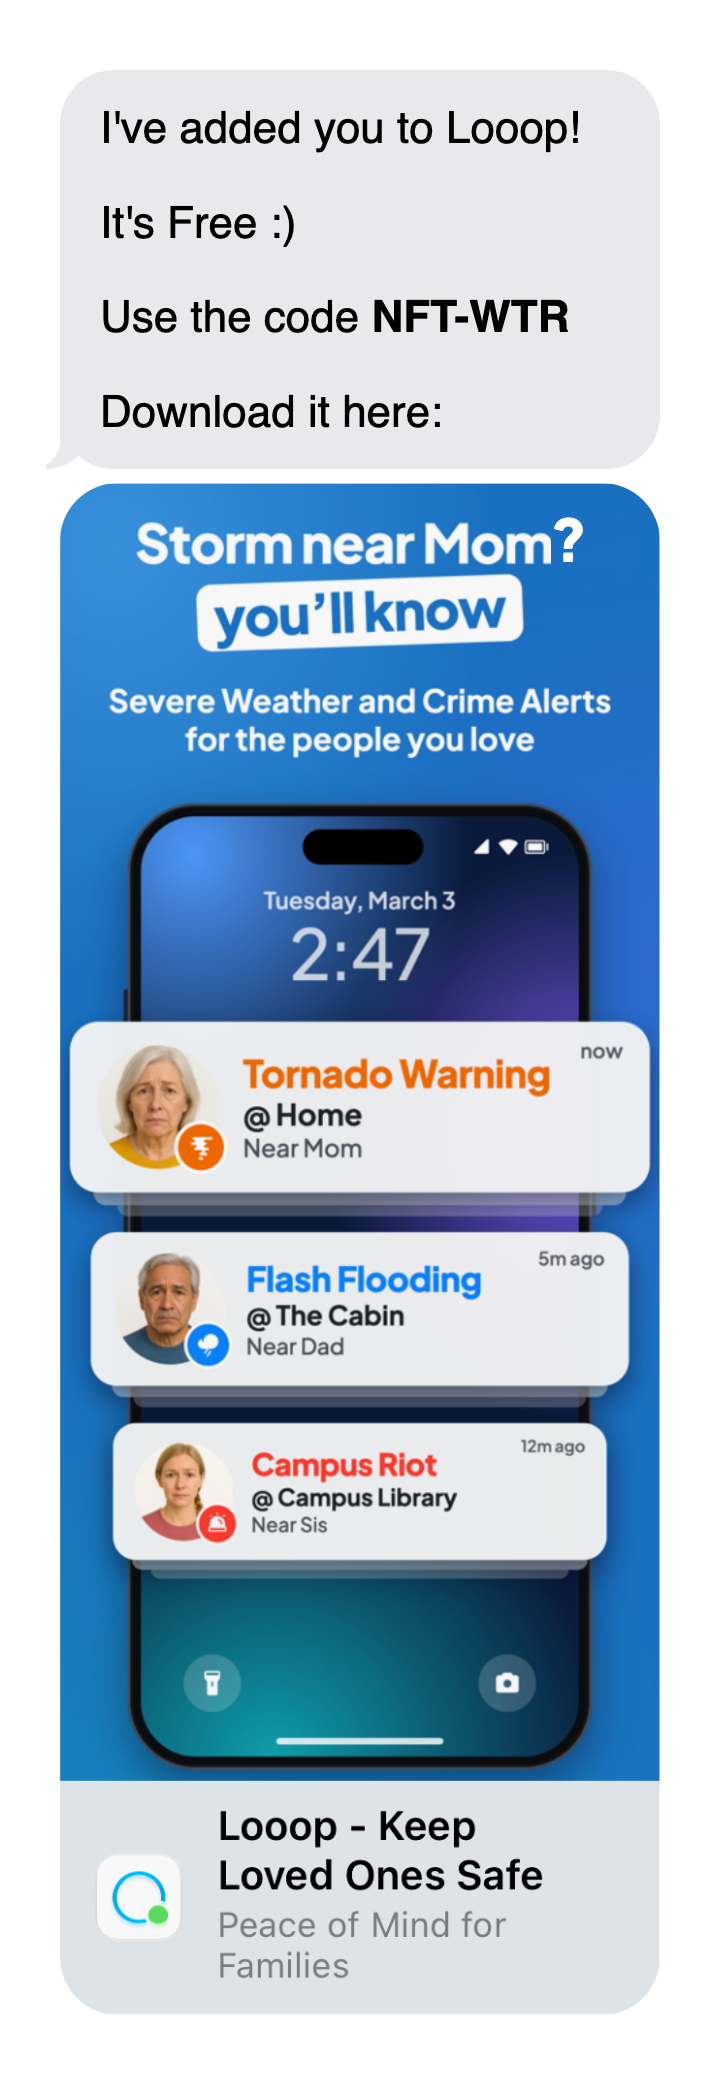
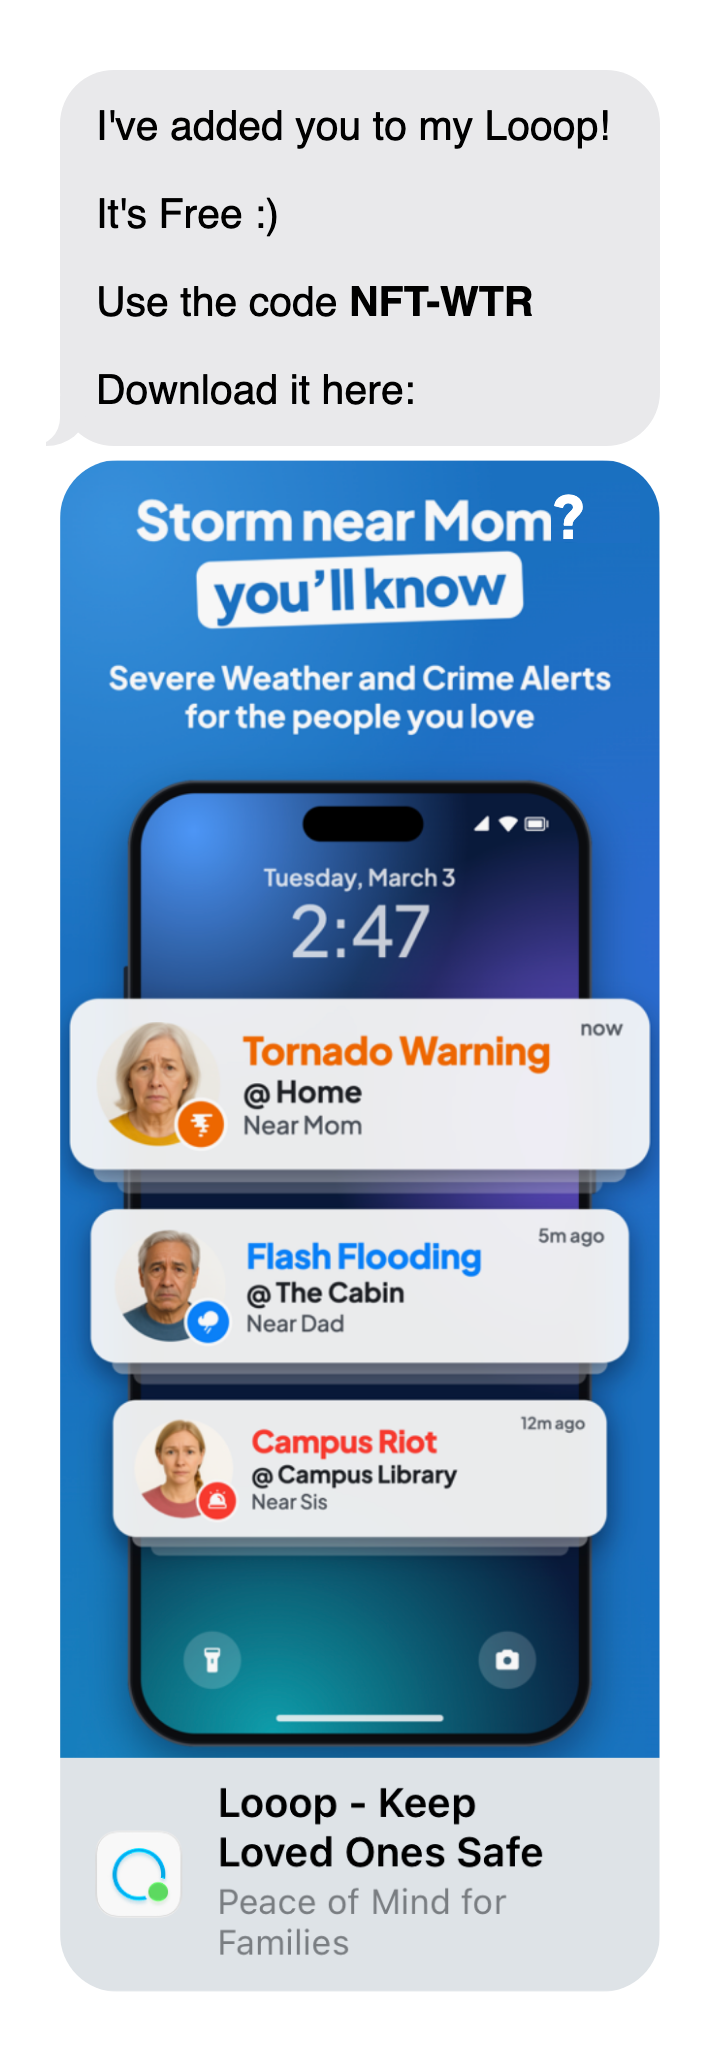
Change /invite first line to 'added you to my Looop'

Changed region(s): [[0.0917, 0.0309, 0.9167, 0.9575], [0.7944, 0.8031, 0.825, 0.834], [0.7333, 0.8958, 0.7639, 0.9266]]

diff --git a/invite.html b/invite.html
@@ -22,7 +22,7 @@
 </head>
 <body>
   <a class="card" href="https://apps.apple.com/us/app/looop-keep-loved-ones-safe/id6760598111?ppid=95d304e6-c38c-4601-ad8b-23c0f87db892">
-    <img src="images/invite-messages.png" width="720" height="2095" alt="Text messages: I've added you to Looop! It's Free :) Use the code NFT-WTR. Download it here: Looop on the App Store">
+    <img src="images/invite-messages.png" width="720" height="2072" alt="Text messages: I've added you to my Looop! It's Free :) Use the code NFT-WTR. Download it here: Looop on the App Store">
   </a>
   <p>Clicking the link leads to <a href="https://apps.apple.com/us/app/looop-keep-loved-ones-safe/id6760598111?ppid=95d304e6-c38c-4601-ad8b-23c0f87db892">Looop<br>on the App Store</a>.</p>
   <div class="spacer" aria-hidden="true"></div>

diff --git a/CHANGELOG.md b/CHANGELOG.md
@@ -2,6 +2,11 @@
 
 Changes to thelooopapp.com, newest first. This file is not published (see `_config.yml`).
 
+## 2026-11-22 13:20 CT
+
+### Pages
+- **`/invite` wording** (`images/invite-messages.png`, `invite.html`): the first line now reads "I've added you to my Looop!" (text size nudged down a touch so it stays on one line).
+
 ## 2026-11-22 13:05 CT
 
 ### Pages
